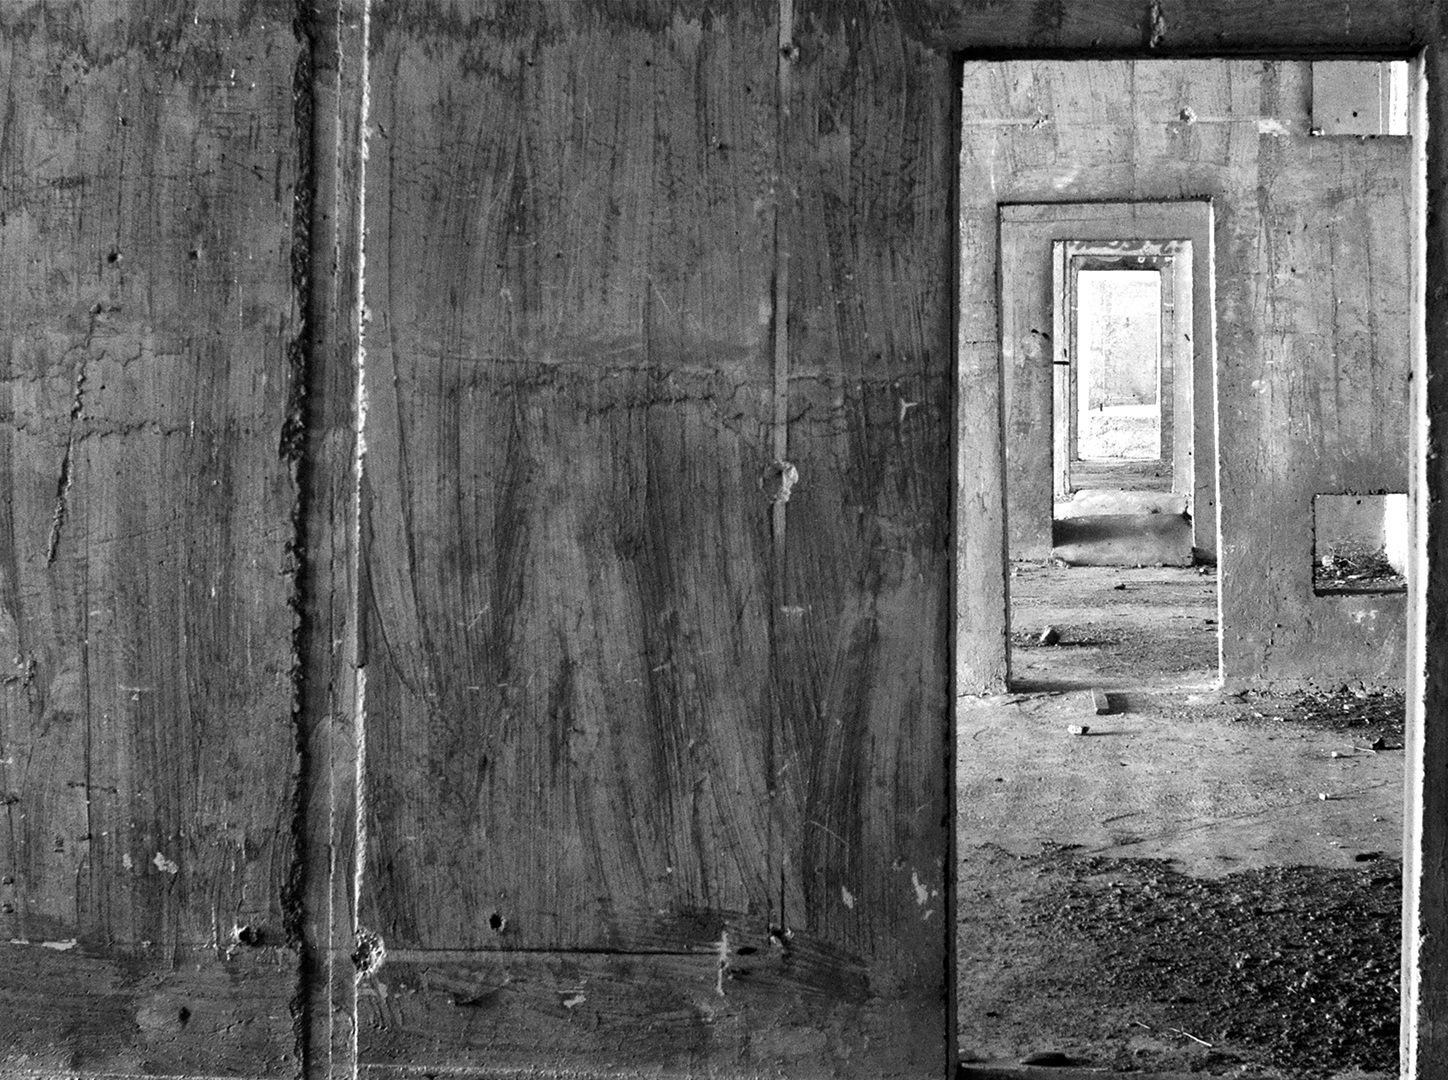
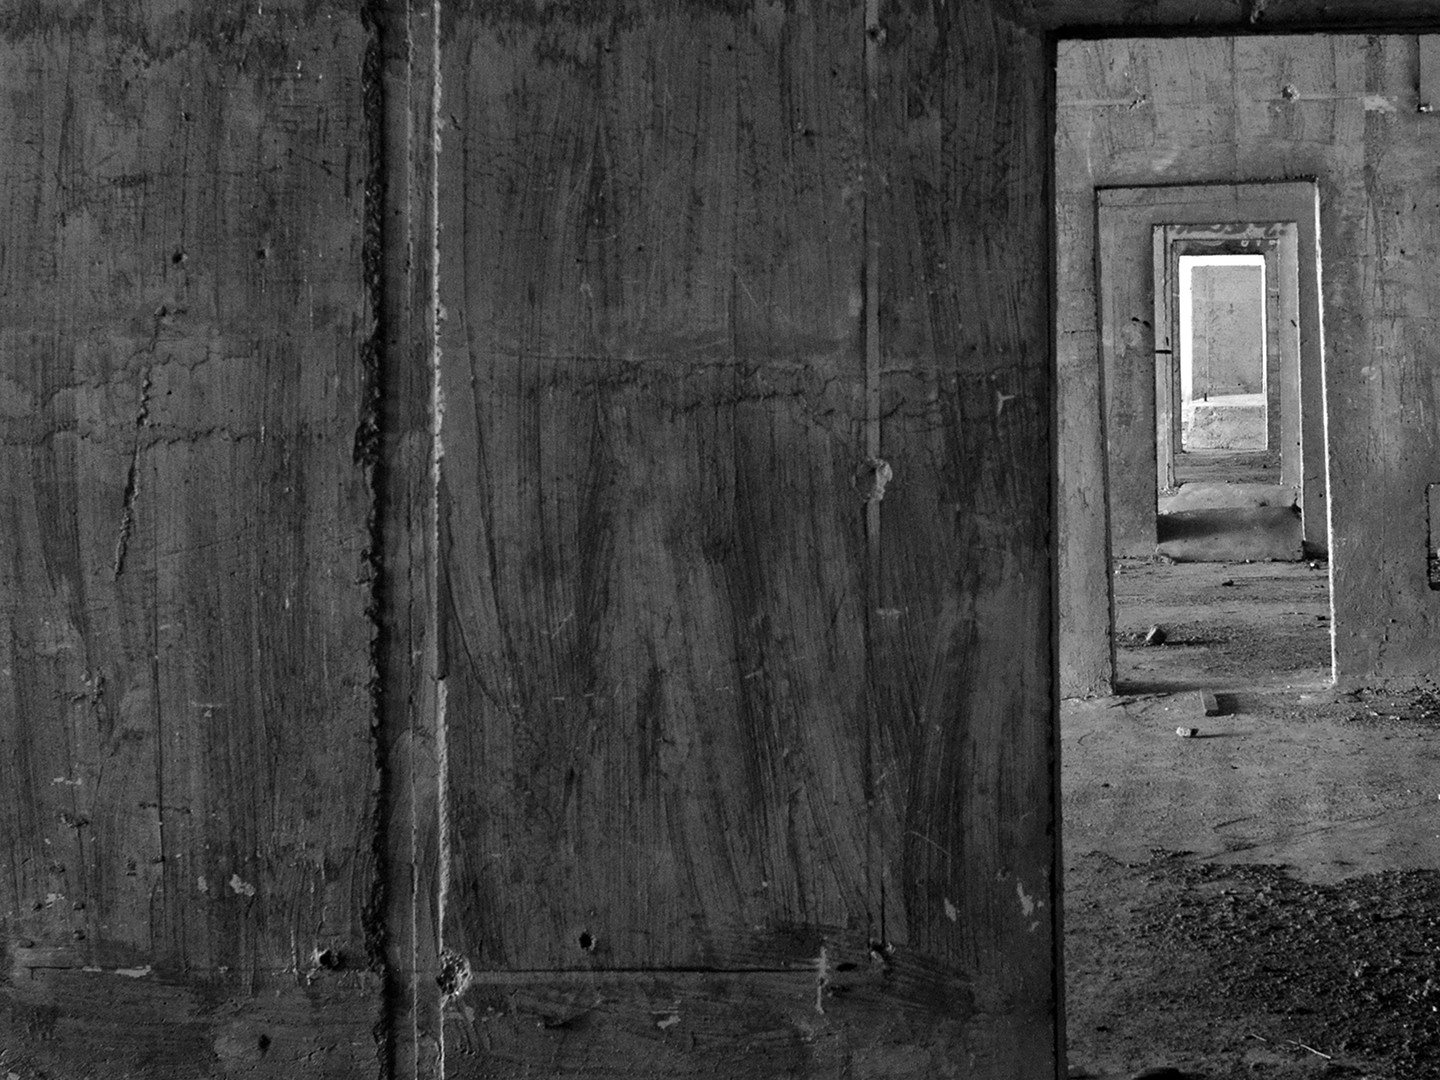
Adjust Page and Index
-Switches background on Page
-Changes text formatting on Index

diff --git a/index.html b/index.html
@@ -56,7 +56,7 @@
         <h1>Clay Marks</h1>
       </div>
       <div id="Body-Text3">
-        <h3>Screenwriter. Storyteller. Biased Wordwright.</h3>
+        <h3>SCREENWRITER<br>STORYTELLER<br>BIASED WORDWRITGHT</h3>
       </div>
       <!-- Body image Container (flex column) -->
       <div id="Body-Image-Container">

diff --git a/css/stylePage.css b/css/stylePage.css
@@ -19,7 +19,7 @@ html
 
 body
 {
-  background-image: url("../img/vulturesAdjusted.jpg");
+  background-image: url("../img/doorAdjusted2.jpg");
   background-position-y: 32%;
   width: 75%;
   height: 100vh;
